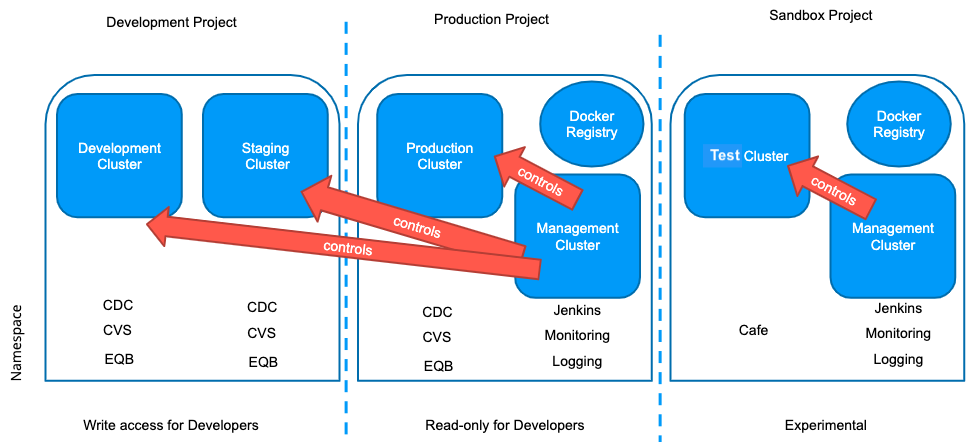
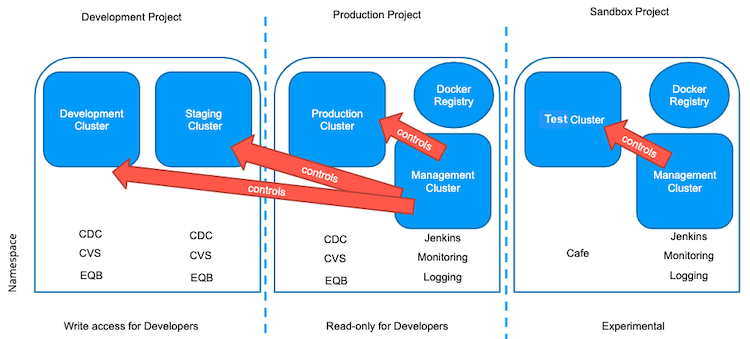
Rename images used to comply with author guidelines #12

diff --git a/platform/GcpMainProjectStructure.md b/platform/GcpMainProjectStructure.md
@@ -22,13 +22,13 @@ The `development-cluster` contains the components of the  CDC, CVS, DVS and EQB 
 monitoring and management services. They are separated within the cluster by various namespaces
 (`cdc`, `cvs`, `dvs`, `eqb`, `mgmt`, `monitoring`).
 
-![GCPMainProjectStructureDevelopment](../assets/GCPMainProjectStructureDevelopment.png)
+![GCP Main Project Structure Development](../assets/gcp-main-project-structure-development.png)
 
 The `staging-cluster` contains the components of the  CDC, CVS, DVS and EQB tools plus some
 monitoring and management services. They are separated within the cluster by various namespaces
 (`cdc`, `cvs`, `dvs`, `eqb`, `mgmt`, `monitoring`).
 
-![GCPMainProjectStructureStaging](../assets/GCPMainProjectStructureStaging.png)
+![GCP Main Project Structure Staging](../assets/gcp-main-project-structure-staging.png)
 
 ### CESSDA Production GCP Project
 
@@ -38,4 +38,4 @@ The `production-cluster` contains the components of the CDC, CVS, DVS and EQB to
 monitoring services. They are separated within the cluster by various namespaces (`cdc`, `cvs`,
 `dvs`, `eqb`, `mgmt`, `monitoring`).
 
-![GCPMainProjectStructureProduction](../assets/GCPMainProjectStructureProduction.png)
+![GCP Main Project Structure Production](../assets/gcp-main-project-structure-production.png)

diff --git a/platform/JenkinsNewJob.md b/platform/JenkinsNewJob.md
@@ -23,7 +23,7 @@ Email notifications can be sent automatically whenever a job succeeds or fails (
 Click on *New Item*, enter a name and select *Copy existing Item* option
 (enter the name of the relevant template in the *Copy from* text box). Finally press *OK* to create the job.  
 
-![JenkinsNewItem1.jpg](../assets/JenkinsNewItem1.jpg)
+![Jenkins New Item](../assets/jenkins-new-item.png)
 
 Names of jobs are governed by rules, so for example build jobs must start with *Build_*.
 
@@ -32,4 +32,4 @@ Names of jobs are governed by rules, so for example build jobs must start with *
 Now click on the newly created job in the Jenkins dashboard, select *Configure* and scroll down to the
 *Source Code Management* section. Set up the Repository URL and select the stored Credentials to use.
 
-![JenkinsJobGitCredentials1.jpg](../assets/JenkinsJobGitCredentials1.jpg)
+![Jenkins Job Git Credentials](../assets/jenkins-job-git-credentials.png)

diff --git a/platform/SettingUpOauth2Proxy.md b/platform/SettingUpOauth2Proxy.md
@@ -28,17 +28,17 @@ A cookie secret must be generated for each deployment. This is done at the chart
 
 Create an OpenID Connect (OIDC) client (see below):
 
-![List of clients in Keycloak](../assets/KeycloakClientList.png)
+![List of clients in Keycloak](../assets/keycloak-client-list.png)
 
-![Client creation screen, with an example client id and URL](../assets/KeycloakClientCreation.png)
+![Client creation screen, with an example client id and URL](../assets/keycloak-client-creation.png)
 
 Set the access type to confidential. This is needed to get the client secret (see below):
 
-![Client settings tab](../assets/KeycloakClientSettings.png)
+![Client settings tab](../assets/keycloak-client-settings.png)
 
 Retrieve the secret from the credentials tab (see below):
 
-![Client credential tab](../assets/KeycloakClientSecret.png)
+![Client credential tab](../assets/keycloak-client-secret.png)
 
 ### Configure oauth2-proxy
 

diff --git a/platform/CreatingTestSuite.md b/platform/CreatingTestSuite.md
@@ -29,11 +29,11 @@ The tests are performed as part of the build process. If the tests pass, the Doc
 The Static Analysis (SAST) scan runs against the newly built Docker image.
 The results are shown in the Jenkins job console output (see example below):
 
-![shiftleftScanResults.png](../assets/shiftleftScanResults.png)
+![Shiftleft Scan Results](../assets/shiftleft-scan-results.png)
 
 ## Software testing Pipeline  
 
-![testingSuitePipeline.png](../assets/testingSuitePipeline.png)
+![Testing Suite Pipeline](../assets/testing-suite-pipeline.png)
 
 ### Testing Suite Jenkinsfile template (cessda.product.test)
 

diff --git a/platform/BitbucketNewRepo.md b/platform/BitbucketNewRepo.md
@@ -40,7 +40,7 @@ The owner is always **cessda** (as per the screenshot below), but the Project is
 |                    CESSDA Vocabulary Service            |   CVS   |   Components of the CESSDA Vocabulary Service, see <https://vocabularies.cessda.eu/>             |
 |                    SSHOC Dataverse                      |   DVS   |   Components of the SSHOC Dataverse product                                                    |
 
-![NewRepo.jpg](../assets/NewGitRepo.jpg)
+![New Git Reposotory](../assets/new-git-repo.png)
 
 ### Create an empty repository
 

diff --git a/platform/TechnicalInfrastructureOverview.md b/platform/TechnicalInfrastructureOverview.md
@@ -47,7 +47,7 @@ and manage CESSDA's products.
 GKE can operate both in stateless mode, and also can be configured to deploy backing components like persistent volumes/storage,
 and even run a database in the cluster.
 
-![GCPMainProjectStructureSandbox](../assets/GCPMainProjectStructureSandbox.png)
+![GCP Main Project Structure Sandbox](../assets/gcp-main-project-structure-sandbox.png)
 
 ## CESSDA Development GCP Project
 

diff --git a/platform/TechnicalInfrastructureDetails.md b/platform/TechnicalInfrastructureDetails.md
@@ -48,4 +48,4 @@ In this design, there are four clusters in total; three for various environments
 (development, staging and production) in the CI/CD process and the other one (management)
 which hosts and runs the tools used in the build, testing and deployment process.
 
-![GCPMainProjectStructure](../assets/GCPMainProjectStructure.png)
+![GCP Main Project Structure](../assets/gcp-main-project-structure.png)

diff --git a/platform/DeploymentPipelineOverview.md b/platform/DeploymentPipelineOverview.md
@@ -15,4 +15,4 @@ See [Naming Conventions]({% link platform/NamingConventions.md %}).
 The diagram shows the deployment pipeline in CESSDA's Continuous Integration and Delivery process,
 from the moment a developer commits code changes to the deployment of the product to production.
 
-![Deployment_pipeline](../assets/Deployment_pipeline.png)
+![Deployment pipeline](../assets/deployment-pipeline.png)

diff --git a/platform/DeploymentWorkFlow.md b/platform/DeploymentWorkFlow.md
@@ -22,4 +22,4 @@ sign-off in the staging environment.
 
 [Helm charts]({% link platform/DeployWithHelm.md %}) are used to orchestrate the deployment of an application's components.
 
-![DataFlow_Diagram](../assets/DataFlow_Diagram.png)
+![DataFlow_Diagram](../assets/dataflow-diagram.png)
